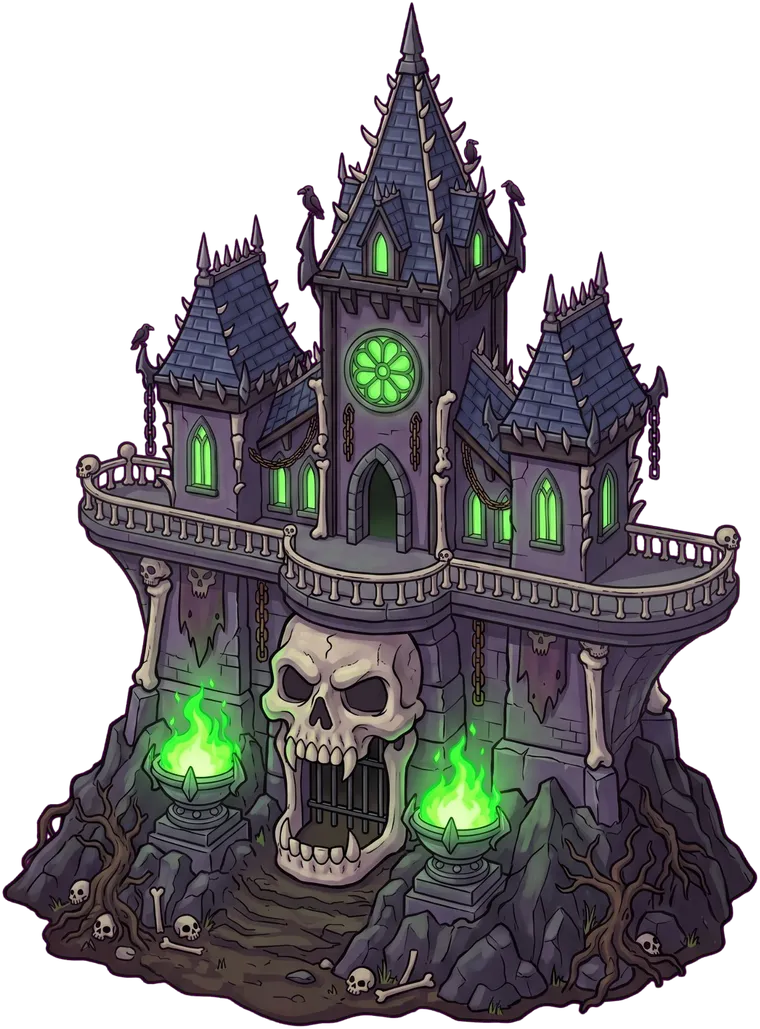
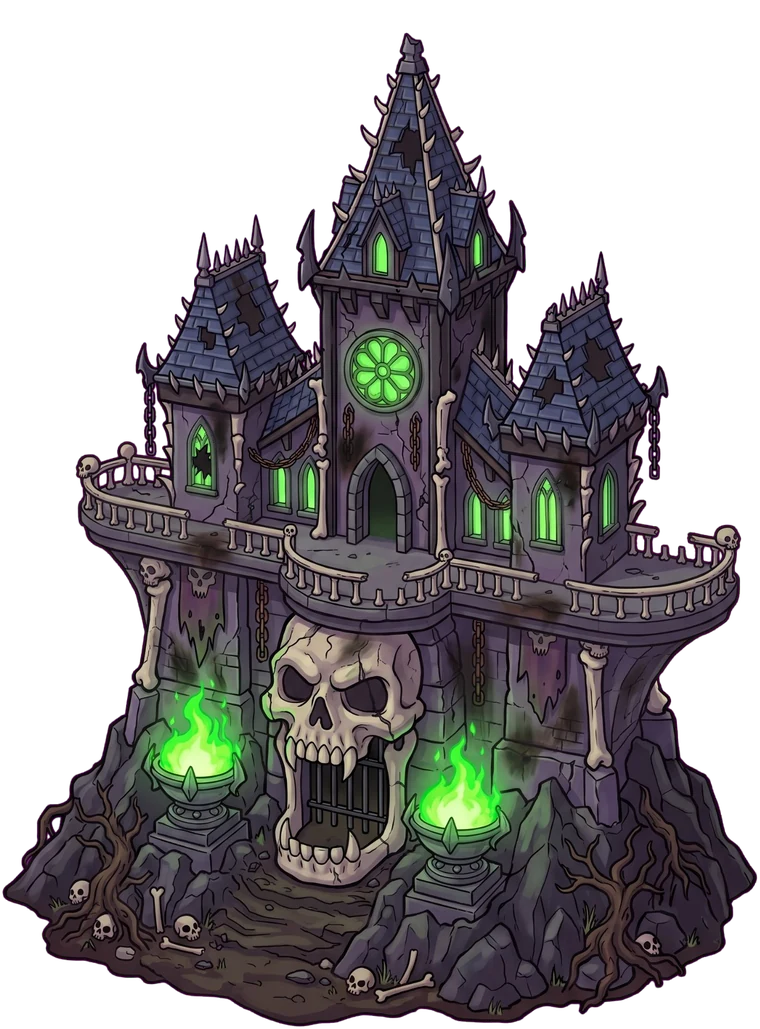
Mortimer: muhafızlarla aynı boy; sakinken içeri girer, düşman yaklaşınca/kalabalık ordu/boss/kale vurulunca/büyüde kapıdan çıkar; hasarlı geniş balkonlu kale (Gemini); 12 Mortimer animasyonu + 43 bekleme işi Cumartesi kota sırasında (varliklar/kota_sirasi.sh) (yayın 449)

diff --git a/sinir-kalesi/js/game.js b/sinir-kalesi/js/game.js
@@ -4517,7 +4517,7 @@ function castleStage() { const r = G.lives / G.maxLives; return r > 0.6 ? 1 : r 
 // rail = Mortimer'ın önüne yeniden çizilen korkuluk bandı, px = Mortimer boyu (görsel pikseli), w = oyundaki genişlik
 // 13 Eki: geniş balkonlu kale (ham/nm_kale_balkon.jpg). Mortimer orta çıkıntıda, iki yan kanatta Mezar Bekçisi muhafızlar (guards: [x, y, yüz]).
 // rails: önde yeniden çizilen korkuluk dikdörtgenleri (Mortimer ve muhafızların ayakları korkuluğun ardında kalır)
-const KEEP = { w: 178, gate: [0.42, 0.85], at: [0.5, 0.566], rail: [0.37, 0.53, 0.62, 0.61], px: 190,
+const KEEP = { w: 178, gate: [0.42, 0.85], at: [0.5, 0.566], rail: [0.37, 0.53, 0.62, 0.61], px: 135, // px: Mortimer muhafızlarla aynı boyda (13 Eki, Caner)
   // railPoly: korkuluğun üst çizgisi (tutamak) boyunca çokgen; altı önde yeniden çizilir (dikdörtgen olsaydı balkon zemini karakterleri düz keserdi)
   railPoly: [[0.08, 0.478], [0.11, 0.486], [0.2, 0.5], [0.3, 0.516], [0.37, 0.526], [0.4, 0.546], [0.45, 0.553], [0.5, 0.555], [0.55, 0.551], [0.585, 0.538],
     [0.65, 0.551], [0.75, 0.564], [0.85, 0.568], [0.9, 0.562], [0.95, 0.528], [0.98, 0.528], [0.98, 0.64], [0.08, 0.64]],
@@ -4633,13 +4633,26 @@ function mortDanger() {
   const c = G.castle;
   return c.shake > 0 || G.enemies.some(e => !e.dead && !e.def.flying && dist(e.x, e.y, c.x, c.y) < 150);
 }
+// 13 Eki (Caner): Mortimer sakinken kapıdan içeri girer ('goin' → 'in'); düşman kaleye yaklaşınca, kalabalık ordu ya da boss gelince,
+// kale vurulunca ya da büyü yapınca kapıdan çıkar ('out'). MORT_IN: çıkış/giriş süresi, sakinlik süreleri, kalabalık eşiği
+const MORT_IN = { walk: 0.9, quiet: 14, crowd: 12, near: 260 };
+function mortLoud() {
+  const c = G.castle, alive = G.enemies.filter(e => !e.dead);
+  return c.shake > 0 || G.mortCast > 0 || alive.length >= MORT_IN.crowd || alive.some(e => e.def.chief || dist(e.x, e.y, c.x, c.y) < MORT_IN.near);
+}
 function updateMortState(dt) {
-  const M = G.mort || (G.mort = { st: 'tea', t: 0, calm: 0 });
+  const M = G.mort || (G.mort = { st: 'tea', t: 0, calm: 0, quiet: 0 });
   M.t += dt;
   if (mortDanger()) M.calm = 0; else M.calm += dt;
-  if (M.st === 'tea' && M.calm === 0) { M.st = 'up'; M.t = 0; }
-  else if (M.st === 'up' && M.t > MORT_TRANS) { M.st = 'panic'; M.t = 0; }
-  else if (M.st === 'panic' && M.calm > 3) { M.st = 'down'; M.t = 0; }
+  const loud = mortLoud(); if (loud) M.quiet = 0; else M.quiet += dt;
+  if (G.mortCast > 0 && (M.st === 'in' || M.st === 'goin')) { M.st = 'panic'; M.t = 0; G.effects.push({ kind: 'ring', x: mortimerPoint().x, y: mortimerPoint().y, r: 22, col: '190,110,255', t: 0, dur: 0.4 }); } // büyüde hemen çıkar
+  if (M.st === 'in') { if (loud) { M.st = 'out'; M.t = 0; } }
+  else if (M.st === 'out') { if (M.t > MORT_IN.walk) { M.st = 'panic'; M.t = 0; } }
+  else if (M.st === 'goin') { if (loud) { M.st = 'out'; M.t = MORT_IN.walk - Math.min(M.t, MORT_IN.walk); } else if (M.t > MORT_IN.walk) { M.st = 'in'; M.t = 0; } }
+  else if (M.st === 'tea' && M.calm === 0) { M.st = 'up'; M.t = 0; M.leave = false; }
+  else if (M.st === 'tea' && M.quiet > MORT_IN.quiet) { M.st = 'up'; M.t = 0; M.leave = true; } // çayını bitirdi, içeri
+  else if (M.st === 'up' && M.t > MORT_TRANS) { M.st = M.leave ? 'goin' : 'panic'; M.t = 0; M.leave = false; }
+  else if (M.st === 'panic' && M.calm > 3) { M.st = M.quiet > 6 ? 'goin' : 'down'; M.t = 0; }
   else if (M.st === 'down' && M.t > MORT_TRANS) { M.st = 'tea'; M.t = 0; }
 }
 const mortStrip = (n) => (ANIM_META[n] && spr(n) ? n : null);
@@ -4656,6 +4669,16 @@ function mortAnim(p) {
   if (mortStrip('mortimer_cay') && M.st !== 'panic') return { n: 'mortimer_cay', i: Math.floor(time * 12) % ANIM_META.mortimer_cay.n, k: MORT_SIT_K };
   return null;
 }
+// kapı ile balkon arası yürüyüş: kapının karanlığından çıkar (silik, küçük, kapı eşiğinde) → balkondaki yerine (tam boy); girerken tersi
+function drawMortDoor() {
+  const M = G.mort, m = mortimerPoint(), q0 = clamp(M.t / MORT_IN.walk, 0, 1), q = M.st === 'out' ? q0 : 1 - q0, e = q * q * (3 - 2 * q);
+  const im = spr('mortimer'); if (!im) return;
+  const c = G.castle, ci = castleStageSprite(), cp = castlePlace(c.x, c.y, ci), h = cp.w * ci.height / ci.width;
+  const dy = (KEEP.door ? KEEP.door[1] : 0.536) * h + (cp.y - h), x = m.x, y = lerp(dy, m.y, e), sc = 0.82 + 0.18 * e, bob = Math.abs(Math.sin(q0 * Math.PI * 4)) * 1.5;
+  ctx.save(); ctx.globalAlpha = clamp(e * 1.6, 0, 1); ctx.translate(x, y - bob); ctx.scale((M.st === 'out' ? 1 : -1) * sc, sc);
+  const hgt = m.h * 1.15 * MORT_SIT_K * 1.15; drawSprite(ctx, im, 0, 0, hgt * im.width / im.height);
+  ctx.restore();
+}
 // balkon muhafızları: Mezar Bekçisi iskeletleri bekleme şeridiyle nefes alır; kale vurulunca kalkanını kaldırır (saldırı şeridi), boss gelince tetikte
 function drawKeepGuards(S, cp, h, sh) {
   const x0 = cp.x + sh - cp.w / 2, y0 = cp.y - h, gh = S.gpx * cp.w / 760;
@@ -4671,6 +4694,9 @@ function drawKeepGuards(S, cp, h, sh) {
   });
 }
 function drawMortimer() {
+  const MS = G.mort && G.mort.st;
+  if (MS === 'in') return;
+  if (MS === 'out' || MS === 'goin') { drawMortDoor(); return; }
   const m = mortimerPoint(), hgt = m.h, p = G.mortCast > 0 ? clamp(1 - G.mortCast / MORT_CAST_T, 0, 1) : -1;
   const k = p >= 0 ? Math.sin(p * Math.PI) : 0;
   const F = ANIM_META.mortimer_cast, fim = F && spr('mortimer_cast'), im = spr('mortimer');

diff --git a/sinir-kalesi/index.html b/sinir-kalesi/index.html
@@ -17,7 +17,7 @@
 <canvas id="game" aria-label="Sınır Kalesi oyun alanı"></canvas>
 <script>
   // Sürüm damgası: her yayında artırılır; tarayıcı eski önbellek kopyasını kullanmaz (js ve görseller).
-  window.SURUM = '448';
+  window.SURUM = '449';
   // dil: kayıtlı seçim (yoksa Türkçe); tr/en dışındakiler için çeviri sözlüğü dil.js'ten önce yüklenir
   window.__dilYukle = (function () {
     var l = null; try { l = localStorage.getItem('sinirKalesi.lang'); } catch (e) {}

diff --git a/sinir-kalesi/yayin.html b/sinir-kalesi/yayin.html
@@ -11,7 +11,7 @@
 <canvas id="game" aria-label="Sınır Kalesi oyun alanı"></canvas>
 <script>
   // Sürüm damgası: her yayında artırılır; tarayıcı eski önbellek kopyasını kullanmaz (js ve görseller).
-  window.SURUM = '448';
+  window.SURUM = '449';
   // dil: kayıtlı seçim (yoksa Türkçe); tr/en dışındakiler için çeviri sözlüğü dil.js'ten önce yüklenir
   window.__dilYukle = (function () {
     var l = null; try { l = localStorage.getItem('sinirKalesi.lang'); } catch (e) {}
